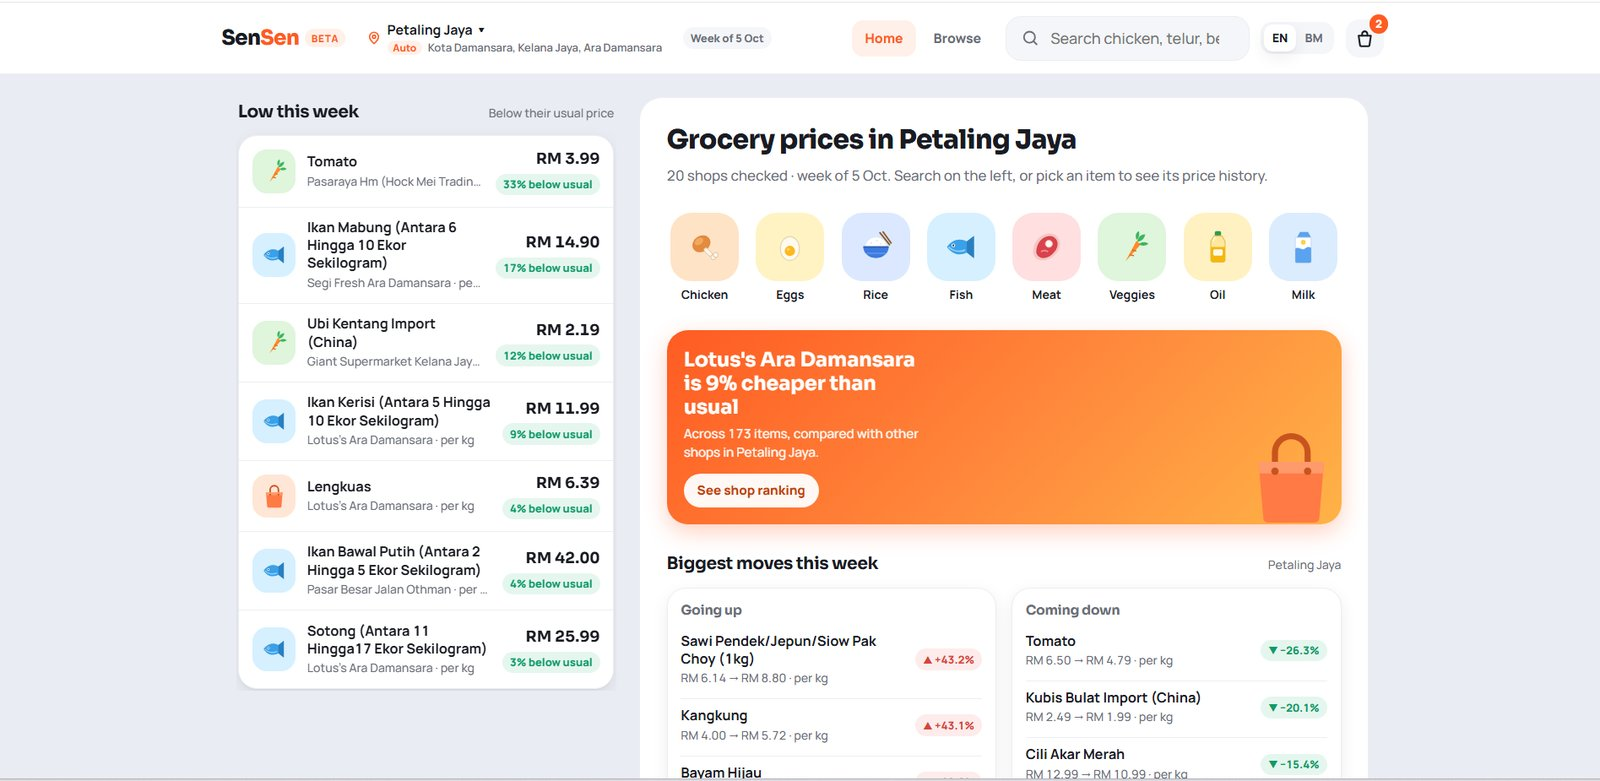
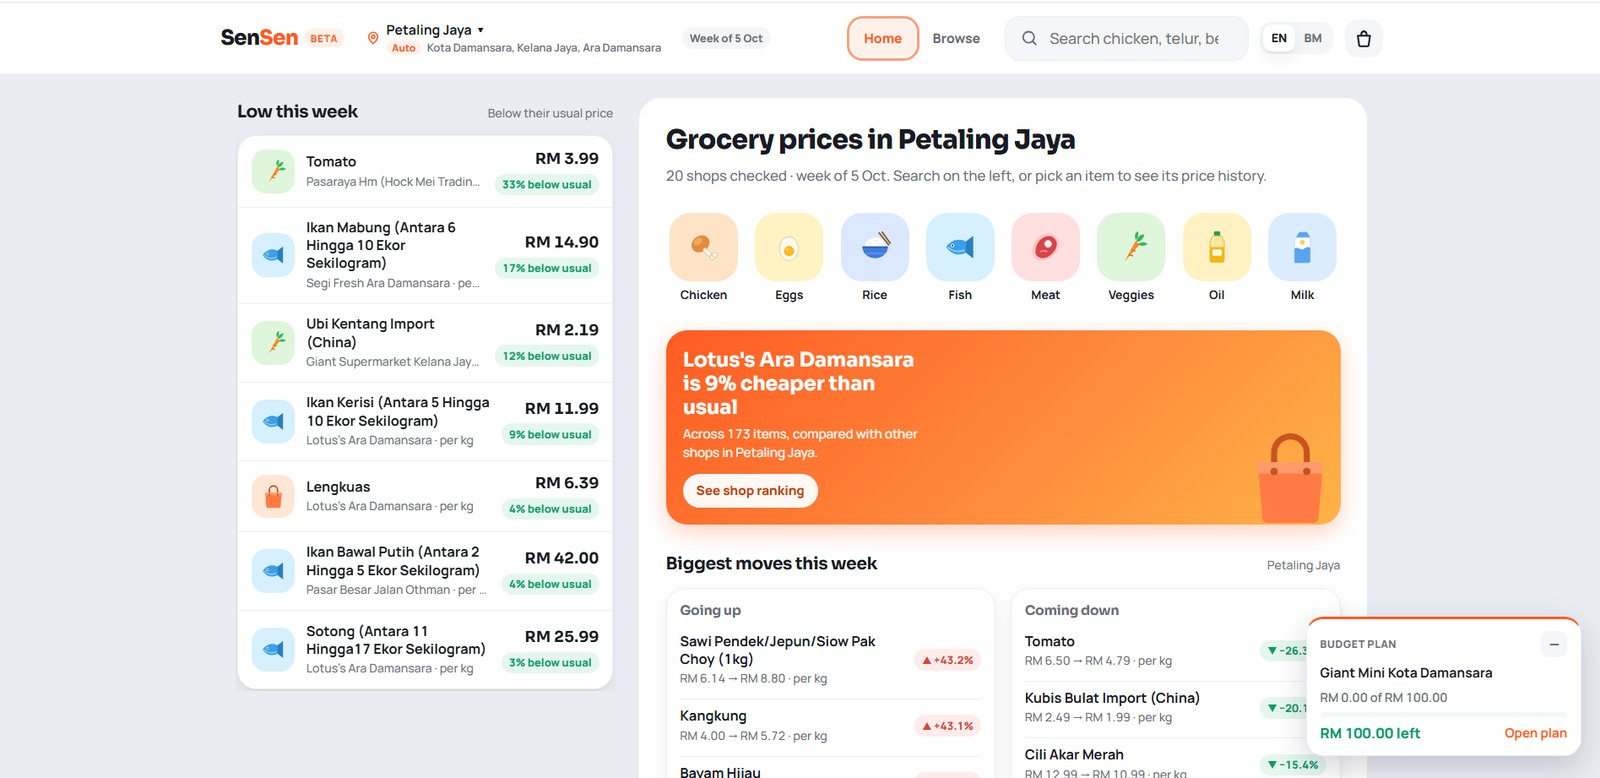
Add files via upload

diff --git a/index.html b/index.html
@@ -60,7 +60,6 @@ section{padding-block:clamp(48px,7vw,88px);border-top:1px solid var(--line)}
 .case-head .sum{color:var(--muted);font-size:1.08rem}
 .case-body{display:grid;grid-template-columns:minmax(0,7fr) minmax(0,5fr);gap:clamp(24px,4vw,48px);align-items:start}
 @media (max-width:820px){.case-body{grid-template-columns:minmax(0,1fr)}}
-@media (min-width:821px){.case-body:not(.solo) > .figs{position:sticky;top:84px}}
 .figs{display:grid;gap:12px;min-width:0}
 .figs .pair{display:grid;grid-template-columns:1fr 1fr;gap:12px}
 @media (max-width:620px){.figs .pair:not(.phones){grid-template-columns:minmax(0,1fr)}.shot.tall .ph{inset:8px;padding:10px}.shot.tall .ph .file{font-size:.66rem;word-break:break-all}.shot.tall .ph p{font-size:.8rem}}
@@ -314,12 +313,81 @@ footer .wrap{display:flex;flex-wrap:wrap;justify-content:space-between;gap:12px}
 .t-sensen .chip{border-radius:999px;background:#FFE3D3;border-color:#FFE3D3}
 .ss-mat{position:absolute;inset:0;background:linear-gradient(135deg,#FF6A2B 0%,#FFA24A 100%);overflow:hidden}
 .ss-mat::after{content:"";position:absolute;right:-60px;top:-80px;width:280px;height:280px;border-radius:50%;background:rgba(255,255,255,.12)}
-.ss-laptop{position:absolute;left:6%;bottom:-6%;width:min(60%,600px);border-radius:12px 12px 0 0;overflow:hidden;box-shadow:0 18px 40px rgba(90,30,0,.35);border:6px solid #1D2033;border-bottom:0;background:#1D2033}
+.ss-laptop{position:absolute;left:6%;bottom:-1%;width:min(60%,600px);border-radius:12px 12px 0 0;overflow:hidden;box-shadow:0 18px 40px rgba(90,30,0,.35);border:6px solid #1D2033;border-bottom:0;background:#1D2033}
 .ss-laptop img,.ss-phone img{display:block;width:100%;height:auto}
 .ss-phone{position:absolute;right:9%;bottom:-22%;width:clamp(92px,16%,160px);border-radius:22px;overflow:hidden;border:5px solid #111;box-shadow:0 18px 40px rgba(90,30,0,.4);background:#111;z-index:1}
 .ss-tag{position:absolute;left:6%;top:18px;font-family:var(--mono);font-size:.74rem;letter-spacing:.08em;color:#fff;background:rgba(29,32,51,.55);padding:4px 10px}
-.t-sensen .ss-meta{margin-top:clamp(20px,3vw,32px)}
+.t-sensen .metrics b{color:var(--box)}
+.t-sensen .ss-meta{margin-top:clamp(20px,3vw,32px);display:grid;gap:22px}
+.t-sensen .ss-h{font-family:var(--mono);font-size:.75rem;letter-spacing:.08em;text-transform:uppercase;color:var(--muted);margin:0 0 10px;font-weight:500}
+.ss-tl{list-style:none;margin:0;padding:0;display:grid;grid-template-columns:repeat(4,minmax(0,1fr));gap:10px;position:relative}
+.ss-tl::before{content:"";position:absolute;left:6px;right:6px;top:6px;height:2px;background:repeating-linear-gradient(90deg,var(--box) 0 6px,transparent 6px 11px);opacity:.55}
+.ss-tl li{position:relative;padding-top:22px;display:grid;gap:2px;min-width:0;align-content:start}
+.ss-tl li::before{content:"";position:absolute;left:0;top:0;width:14px;height:14px;border-radius:50%;background:var(--bg);border:3px solid var(--box);box-sizing:border-box}
+.ss-tl .v{font-family:var(--mono);font-size:.74rem;color:var(--link);font-weight:700}
+.ss-tl b{font-size:.95rem;line-height:1.25}
+.ss-tl li > span:last-child{font-size:.82rem;color:var(--muted);line-height:1.35}
+.ss-btns{display:flex;flex-wrap:wrap;gap:10px}
+.ss-btn{display:inline-flex;align-items:center;padding:10px 18px;border-radius:999px;font-weight:700;font-size:.92rem;text-decoration:none;border:1.5px solid var(--box);color:var(--link);background:transparent;transition:transform .15s ease,box-shadow .15s ease,background .15s ease}
+.ss-btn.primary{background:var(--box);color:#fff;box-shadow:0 6px 16px rgba(255,90,31,.3)}
+.ss-btn:hover{transform:translateY(-2px)}
+.ss-btn:not(.primary):hover{background:#FFE3D3}
+.ss-cards{display:grid;grid-template-columns:repeat(2,minmax(0,1fr));gap:12px}
+.ss-card{background:var(--surface);border:1px solid var(--line);border-top:3px solid var(--box);border-radius:12px;padding:14px 14px 16px;display:grid;gap:6px;box-shadow:0 4px 14px rgba(150,70,20,.06)}
+.ss-card b{font-size:1rem}
+.ss-card span{font-size:.88rem;color:var(--muted);line-height:1.45}
+.ss-flow{list-style:none;margin:0;padding:0;display:grid;gap:12px;counter-reset:f}
+.ss-flow li{counter-increment:f;position:relative;padding-left:44px;display:grid;gap:2px;min-height:30px}
+.ss-flow li::before{content:counter(f);position:absolute;left:0;top:0;width:30px;height:30px;border-radius:50%;background:var(--box);color:#fff;font-weight:700;font-size:.9rem;display:grid;place-items:center}
+.ss-flow li:not(:last-child)::after{content:"";position:absolute;left:14px;top:32px;bottom:-12px;width:2px;background:var(--line)}
+.ss-flow b{font-size:.98rem}
+.ss-flow span{font-size:.9rem;color:var(--muted);line-height:1.45}
+@media (max-width:820px){.t-sensen .case-body > .figs{display:contents}.t-sensen .case-body > .figs > .carousel{order:0}.t-sensen .case-body > .details{order:1}.t-sensen .ss-meta{order:2;margin-top:0}}
+@media (max-width:520px){.ss-btn{padding:9px 14px;font-size:.88rem}.ss-tl{grid-template-columns:repeat(2,minmax(0,1fr));row-gap:18px}.ss-tl::before{display:none}.ss-cards{grid-template-columns:minmax(0,1fr)}}
 .t-sensen .slide img{aspect-ratio:1600/782;object-fit:cover;object-position:top center;background:#EEF0F4}
+/* FYP: road hazard look */
+.rh-h{font-family:var(--mono);font-size:.75rem;letter-spacing:.08em;text-transform:uppercase;color:var(--muted);margin:0 0 12px;font-weight:500}
+.rh-loop{margin-top:clamp(28px,3vw,36px)}
+.rh-loop ol{list-style:none;margin:0;padding:0;display:grid;grid-template-columns:repeat(4,minmax(0,1fr));gap:14px;counter-reset:none}
+.rh-loop li{position:relative;display:grid;align-content:start;gap:6px;padding:18px 16px;background:var(--surface);border:1px solid var(--line);border-top:2px solid #F5B700}
+.rh-loop li:not(:last-child)::after{content:"\2192";position:absolute;right:-13px;top:18px;width:12px;text-align:center;color:var(--muted);font-size:.9rem;z-index:1}
+.rh-loop i{font-style:normal;font-family:var(--mono);font-size:.75rem;color:#F5B700;font-weight:700}
+.rh-loop b{font-size:1.05rem}
+.rh-loop span{font-size:.9rem;line-height:1.5;color:var(--muted)}
+.rh-bottom{margin-top:clamp(28px,3vw,36px);display:grid;grid-template-columns:minmax(0,1fr) minmax(0,1fr);gap:clamp(24px,4vw,48px);align-items:start}
+.rh-bottom .award{max-width:none;grid-template-columns:minmax(0,1.15fr) minmax(0,1fr);margin:0;padding:14px;gap:22px;border-color:rgba(245,183,0,.45)}
+.rh-bottom .award b{font-size:1.5rem}
+.rh-bottom .award img{box-shadow:0 8px 24px rgba(0,0,0,.4)}
+.rh-bottom .award:hover{border-color:#F5B700}
+.rh-ship{display:grid;gap:18px}
+.rh-ship h4,.rh-h4{font-family:var(--mono);font-size:.75rem;letter-spacing:.08em;text-transform:uppercase;color:var(--muted);margin:0 0 10px;font-weight:500}
+.rh-spec{margin:0;display:grid;border-top:1px solid var(--line)}
+.rh-spec > div{display:grid;grid-template-columns:120px minmax(0,1fr);gap:16px;padding:11px 0;border-bottom:1px solid var(--line)}
+.rh-spec dt{font-family:var(--mono);font-size:.74rem;letter-spacing:.06em;text-transform:uppercase;color:var(--ink);opacity:.7;padding-top:3px}
+.rh-spec dd{margin:0;font-size:.92rem;line-height:1.5;color:var(--muted)}
+@media (max-width:820px){.rh-loop ol{grid-template-columns:repeat(2,minmax(0,1fr))}.rh-loop li::after{display:none}.rh-bottom{grid-template-columns:minmax(0,1fr)}}
+@media (max-width:520px){.rh-loop ol{grid-template-columns:minmax(0,1fr)}.rh-bottom .award{grid-template-columns:minmax(0,1fr)}.rh-spec > div{grid-template-columns:minmax(0,1fr);gap:2px}}
+.rh-btns,.sl-btns{display:flex;flex-wrap:wrap;gap:10px}
+.rh-btn{display:inline-flex;align-items:center;gap:6px;padding:10px 16px;font-family:var(--mono);font-weight:700;font-size:.85rem;text-decoration:none;border:2px solid #F5B700;color:#F5B700;text-transform:uppercase;letter-spacing:.04em;transition:transform .15s ease,background .15s ease}
+.rh-btn.primary{background:#F5B700;color:#14171A}
+.rh-btn:hover{transform:translateY(-2px)}
+.rh-btn:not(.primary){border-color:var(--line);color:var(--ink)}
+.rh-btn:not(.primary):hover{border-color:#F5B700;color:#F5B700}
+/* Sightline: agent-select look */
+.t-sight .metrics b{font-family:"Barlow Condensed","Arial Narrow",sans-serif;color:#FF4655;letter-spacing:.02em}
+.sl-why{position:relative;background:var(--surface);padding:16px 18px 16px 20px;clip-path:polygon(0 0,100% 0,100% calc(100% - 14px),calc(100% - 14px) 100%,0 100%)}
+.sl-why::before{content:"";position:absolute;left:0;top:0;bottom:0;width:4px;background:#FF4655}
+.sl-why p{font-size:1.02rem}
+.sl-abil{list-style:none;margin:0;padding:0;display:grid;gap:10px}
+.sl-abil li{display:grid;grid-template-columns:44px minmax(0,1fr);gap:14px;align-items:center;background:var(--surface);padding:12px 14px;clip-path:polygon(10px 0,100% 0,100% calc(100% - 10px),calc(100% - 10px) 100%,0 100%,0 10px);border-left:2px solid transparent;transition:background .15s ease,transform .15s ease}
+.sl-abil li:hover{background:#1D2D3B;transform:translateX(4px)}
+.sl-abil kbd,.sl-ult kbd{display:grid;place-items:center;width:40px;height:40px;font-family:"Barlow Condensed","Arial Narrow",sans-serif;font-weight:700;font-size:1.3rem;color:#ECE8E1;background:#0F1923;border:1.5px solid #FF4655;clip-path:polygon(6px 0,100% 0,100% calc(100% - 6px),calc(100% - 6px) 100%,0 100%,0 6px)}
+.sl-abil div{display:grid;gap:2px}
+.sl-abil b{font-family:"Barlow Condensed","Arial Narrow",sans-serif;text-transform:uppercase;letter-spacing:.06em;font-size:1.05rem}
+.sl-abil span{font-size:.9rem;color:var(--muted);line-height:1.4}
+.sl-ult{display:inline-flex;align-items:center;gap:12px;padding:8px 22px 8px 8px;background:#FF4655;color:#0F1923;text-decoration:none;font-family:"Barlow Condensed","Arial Narrow",sans-serif;font-weight:700;font-size:1.15rem;text-transform:uppercase;letter-spacing:.06em;clip-path:polygon(0 0,100% 0,100% calc(100% - 12px),calc(100% - 12px) 100%,0 100%);transition:transform .15s ease,filter .15s ease}
+.sl-ult kbd{background:#0F1923;border-color:#0F1923}
+.sl-ult:hover{transform:translateY(-2px);filter:brightness(1.08)}
 </style>
 </head><body>
 
@@ -500,33 +568,48 @@ footer .wrap{display:flex;flex-wrap:wrap;justify-content:space-between;gap:12px}
               <p>Road damage is found through slow manual checks and scattered complaints, and every report is verified by hand before repairs start.</p>
             </div>
             <div>
-              <h4>What I built</h4>
-              <ul>
-                <li>A YOLOv8 detector trained on Malaysian roads, with augmentation for rain, shade and glare</li>
-                <li>A mobile-first React web app to report hazards with a photo and GPS, no sign-up</li>
-                <li>An admin dashboard where corrections retrain the model</li>
-                <li>A contractor portal that closes the repair loop</li>
-              </ul>
-            </div>
-            <div>
-              <h4>Stack</h4>
-              <div class="chips"><span class="chip">Python</span><span class="chip">YOLOv8</span><span class="chip">Flask</span><span class="chip">Google Cloud Run</span><span class="chip">Firebase</span><span class="chip">React</span><span class="chip">Leaflet.js</span></div>
-            </div>
-            <div class="links">
-              <a href="https://youtu.be/7WFv5joPx0U" target="_blank" rel="noopener">PIXEL 2026 presentation</a>
-              <a href="https://github.com/HazzyWan/FYP_RoadHazard" target="_blank" rel="noopener">GitHub</a>
+              <h4 class="rh-h4">Under the hood</h4>
+              <dl class="rh-spec">
+                <div><dt>Inference</dt><dd>Two passes with CLAHE enhancement and a shadow guard on top of raw YOLO output</dd></div>
+                <div><dt>Stress test</dt><dd>6 tropical conditions: glare, canopy shadow, rain, wet road, haze, low light</dd></div>
+                <div><dt>Retraining</dt><dd>Admin corrections become training data; a new model goes live only if mAP@0.5 improves</dd></div>
+                <div><dt>Deploy</dt><dd>Flask API in Docker on Cloud Run, React app on Firebase Hosting</dd></div>
+              </dl>
             </div>
           </div>
         </div>
-        <a class="award" href="images/pixel-certificate.jpg" data-lightbox>
+        <div class="rh-loop">
+          <h4 class="rh-h">The repair loop I built</h4>
+          <ol>
+            <li><i>01</i><b>Report</b><span>Citizens snap a photo on a mobile-first web app. GPS is read from the photo, no sign-up.</span></li>
+            <li><i>02</i><b>Detect</b><span>YOLOv8 marks potholes and cracks with a confidence score.</span></li>
+            <li><i>03</i><b>Verify</b><span>Admins confirm or correct on a dashboard with a live hazard map.</span></li>
+            <li><i>04</i><b>Repair</b><span>Contractors get an email link to accept, reject and complete the job.</span></li>
+          </ol>
+        </div>
+        <div class="rh-bottom">
+          <div class="rh-ship">
+              <div>
+                <h4>Stack</h4>
+                <div class="chips"><span class="chip">Python</span><span class="chip">YOLOv8</span><span class="chip">OpenCV</span><span class="chip">Flask</span><span class="chip">Docker</span><span class="chip">Google Cloud Run</span><span class="chip">Firebase</span><span class="chip">React</span><span class="chip">Leaflet.js</span></div>
+              </div>
+              <div class="rh-btns">
+                <a class="rh-btn primary" href="https://youtu.be/7WFv5joPx0U" target="_blank" rel="noopener">&#9654; PIXEL 2026 presentation</a>
+                <a class="rh-btn" href="https://github.com/HazzyWan/FYP_RoadHazard" target="_blank" rel="noopener">GitHub</a>
+              </div>
+          </div>
+          <div>
+            <h4 class="rh-h">Award</h4>
+    <a class="award" href="images/pixel-certificate.jpg" data-lightbox>
           <img src="images/pixel-certificate.jpg" alt="PIXEL 2026 Silver Award certificate">
           <span>
-            <span class="eyebrow">Award</span>
             <b>Silver Award, PIXEL 2026</b>
             <span class="sub">School of Computer Sciences, Universiti Sains Malaysia · 20 June 2026</span><br>
             <span class="view">View certificate</span>
           </span>
         </a>
+          </div>
+        </div>
       </div>
       </article>
 
@@ -637,29 +720,38 @@ footer .wrap{display:flex;flex-wrap:wrap;justify-content:space-between;gap:12px}
       <article class="case t-sensen" id="sensen">
       <div class="wrap">
         <div class="case-head">
-          <p class="eyebrow">Side project · Live beta · 2026</p>
+          <p class="eyebrow">Side project · Live beta v0.7 · 2026</p>
           <h3>SenSen</h3>
           <p class="sum">A grocery price comparison app for Selangor, KL and Putrajaya, built on the government's PriceCatcher open data.</p>
         </div>
         <div class="banner">
           <div class="ss-mat">
             <span class="ss-tag">sensen-xi.vercel.app</span>
-            <div class="ss-laptop"><img src="images/sensen-laptop-home.jpg" alt="SenSen laptop home screen"></div>
-            <div class="ss-phone"><img src="images/sensen-phone-home.jpg" alt="SenSen installed on a phone, dark mode"></div>
+            <div class="ss-laptop"><img src="images/sensen-laptop-home.jpg" alt="SenSen on a laptop, with the floating budget card"></div>
+            <div class="ss-phone"><img src="images/sensen-phone-budget.jpg" alt="Budget plan on a phone, with cheaper-nearby hints"></div>
           </div>
+        </div>
+        <div class="metrics" aria-label="Key facts">
+          <div><b>v0.7</b><span>live beta, used on phone and laptop</span></div>
+          <div><b>3</b><span>states covered: Selangor, KL and Putrajaya</span></div>
+          <div><b>Daily</b><span>automatic data refresh, tests and deploy</span></div>
+          <div><b>RM 0</b><span>to run, on free tiers only</span></div>
         </div>
         <div class="case-body">
           <div class="figs">
             <div class="carousel" aria-roledescription="carousel" aria-label="SenSen screens">
               <div class="track" tabindex="0">
-              
               <figure class="slide">
-                <img src="images/sensen-laptop-item-nearme.jpg" alt="Item page" loading="eager">
-                <figcaption><b>Item page</b> A Low, Normal or High label against six months of history, and the cheapest shops within 3, 5 or 10 km.</figcaption>
+                <img src="images/sensen-laptop-budget.jpg" alt="Budget planner" loading="eager">
+                <figcaption><b>Budget planner</b> Pick a shop, set a budget, then add items from everything that shop sells.</figcaption>
+              </figure>
+              <figure class="slide">
+                <img src="images/sensen-laptop-item-nearme.jpg" alt="Item page" loading="lazy">
+                <figcaption><b>Item page</b> A Low, Normal or High label, the cheapest shops within 3, 5 or 10 km, and the budget card following along.</figcaption>
               </figure>
               <figure class="slide">
                 <img src="images/sensen-laptop-basket.jpg" alt="Basket comparison" loading="lazy">
-                <figcaption><b>Basket comparison</b> The cheapest single shop for everything in your basket, and what you save by splitting the trip.</figcaption>
+                <figcaption><b>Basket comparison</b> The cheapest single shop for your whole basket, and what you save by splitting the trip.</figcaption>
               </figure>
               <figure class="slide">
                 <img src="images/sensen-laptop-browse-ranking.jpg" alt="Browse and shop ranking" loading="lazy">
@@ -668,36 +760,52 @@ footer .wrap{display:flex;flex-wrap:wrap;justify-content:space-between;gap:12px}
               </div>
               <div class="car-nav">
                 <button type="button" class="car-btn prev" aria-label="Previous slide">&larr;</button>
-                <div class="dots"><button type="button" aria-label="Slide 1: Item page"></button><button type="button" aria-label="Slide 2: Basket comparison"></button><button type="button" aria-label="Slide 3: Browse and shop ranking"></button></div>
-                <span class="count mono">1 / 3</span>
+                <div class="dots"><button type="button" aria-label="Slide 1: Budget planner"></button><button type="button" aria-label="Slide 2: Item page"></button><button type="button" aria-label="Slide 3: Basket comparison"></button><button type="button" aria-label="Slide 4: Browse and shop ranking"></button></div>
+                <span class="count mono">1 / 4</span>
                 <button type="button" class="car-btn next" aria-label="Next slide">&rarr;</button>
               </div>
             </div>
-            <div class="details ss-meta">
-            <div>
-                <h4>Stack</h4>
+            <div class="ss-meta">
+              <div>
+                <h4 class="ss-h">Next up</h4>
+                <ol class="ss-tl">
+                  <li><span class="v">v0.8</span><b>Visual search</b><span>Scan an item with the camera</span></li>
+                  <li><span class="v">v0.9</span><b>Community prices</b><span>For items PriceCatcher misses</span></li>
+                  <li><span class="v">v1.0</span><b>AI assistant</b><span>Answers from real prices</span></li>
+                  <li><span class="v">v1.1</span><b>Mascot and tour</b><span>A guided first run</span></li>
+                </ol>
+              </div>
+              <div>
+                <h4 class="ss-h">Stack</h4>
                 <div class="chips"><span class="chip">React</span><span class="chip">FastAPI</span><span class="chip">Python</span><span class="chip">pandas</span><span class="chip">PWA</span><span class="chip">Open Data</span><span class="chip">GitHub Actions</span><span class="chip">Vercel</span></div>
               </div>
-              <div class="links">
-                <a href="https://sensen-xi.vercel.app" target="_blank" rel="noopener">Live app</a>
-                <a href="https://github.com/HazzyWan/sensen" target="_blank" rel="noopener">GitHub</a>
-                <a href="https://sensen-api.vercel.app/docs" target="_blank" rel="noopener">API docs</a>
+              <div class="ss-btns">
+                <a class="ss-btn primary" href="https://sensen-xi.vercel.app" target="_blank" rel="noopener">Open live app &#8599;</a>
+                <a class="ss-btn" href="https://github.com/HazzyWan/sensen" target="_blank" rel="noopener">GitHub</a>
+                <a class="ss-btn" href="https://sensen-api.vercel.app/docs" target="_blank" rel="noopener">API docs</a>
               </div>
             </div>
           </div>
           <div class="details">
             <div>
               <h4>Why</h4>
-              <p>KPDN publishes what shops charge for hundreds of everyday items, but only as raw data files. SenSen turns it into answers: what an item usually costs, which shop nearby is cheaper, and when a price is higher than normal.</p>
+              <p>Shoppers can't tell if a price is fair. KPDN publishes what shops charge, but only as raw data files. SenSen turns that into answers.</p>
+            </div>
+            <div>
+              <h4>New in v0.7</h4>
+              <div class="ss-cards">
+                <div class="ss-card"><b>Budget planner</b><span>Pick a shop, set a budget and watch it drop as you add items, with a hint when a shop nearby is cheaper.</span></div>
+                <div class="ss-card"><b>Smarter area picker</b><span>Finds your area from the 5 nearest shops. Type Ampang or Cyberjaya and it finds the district.</span></div>
+              </div>
             </div>
             <div>
               <h4>How it works</h4>
-              <ul>
-                <li>A Python pipeline cleans 6 months of PriceCatcher data into weekly prices and labels</li>
-                <li>A FastAPI backend serves it from memory, no database needed</li>
-                <li>"Near me" distances are worked out on the phone, so your location never leaves it</li>
-                <li>GitHub Actions refreshes, tests and redeploys every morning, at RM 0 on free tiers</li>
-              </ul>
+              <ol class="ss-flow">
+                <li><b>Pipeline</b><span>Python cleans 6 months of PriceCatcher data, refreshed every morning by GitHub Actions</span></li>
+                <li><b>API</b><span>FastAPI serves it from memory, no database. New: /shops and /shops/{code}/items</span></li>
+                <li><b>App</b><span>React PWA with separate phone and laptop layouts</span></li>
+                <li><b>Private</b><span>Nearby shops and distances are worked out on your phone. Your location never reaches the server</span></li>
+              </ol>
             </div>
             <p class="note">An independent project, not connected to KPDN or DOSM. Prices from PriceCatcher by KPDN on data.gov.my (CC BY 4.0). Shop locations &copy; OpenStreetMap contributors.</p>
           </div>
@@ -720,6 +828,12 @@ footer .wrap{display:flex;flex-wrap:wrap;justify-content:space-between;gap:12px}
             <span class="label">Sightline</span>
           </div>
         </div>
+        <div class="metrics" aria-label="Key facts">
+          <div><b>1,358</b><span>ranked matches analysed</span></div>
+          <div><b>3</b><span>views: positions, deaths and kills</span></div>
+          <div><b>5</b><span>filters: map, rank, side, agent, round phase</span></div>
+          <div><b>Live</b><span>on Netlify, free to try</span></div>
+        </div>
         <div class="case-body">
           <div class="figs">
             <figure class="shot" data-fit="contain" style="aspect-ratio:997/881" data-src="images/valorant-ui.jpg">
@@ -735,24 +849,24 @@ footer .wrap{display:flex;flex-wrap:wrap;justify-content:space-between;gap:12px}
             </div>
           </div>
           <div class="details">
-            <div>
+            <div class="sl-why">
               <h4>Why</h4>
               <p>When I peek a site, where is the enemy most likely to be? I wanted real match data instead of gut feel.</p>
             </div>
             <div>
               <h4>How it works</h4>
-              <ul>
-                <li>Pulls ranked match data from the HenrikDev API</li>
-                <li>Python maps every player's position onto the minimap and turns it into heatmaps</li>
-                <li>Filter by map, rank, side, agent and round phase</li>
-              </ul>
+              <ol class="sl-abil">
+                <li><kbd>C</kbd><div><b>Collect</b><span>Pulls ranked match data from the HenrikDev API</span></div></li>
+                <li><kbd>Q</kbd><div><b>Map</b><span>Python places every player's position on the minimap and builds the heatmaps</span></div></li>
+                <li><kbd>E</kbd><div><b>Filter</b><span>By map, rank, side, agent and round phase</span></div></li>
+              </ol>
             </div>
             <div>
               <h4>Stack</h4>
               <div class="chips"><span class="chip">Python</span><span class="chip">pandas, NumPy, SciPy</span><span class="chip">HTML/JS</span><span class="chip">HenrikDev API</span><span class="chip">Netlify</span></div>
             </div>
-            <div class="links">
-              <a href="https://sightline-val.netlify.app" target="_blank" rel="noopener">Live demo</a>
+            <div class="sl-btns">
+              <a class="sl-ult" href="https://sightline-val.netlify.app" target="_blank" rel="noopener"><kbd>X</kbd><span>Try the live demo</span></a>
               <!-- Add once the repo is public: <a href="https://github.com/HazzyWan/sightline" target="_blank" rel="noopener">GitHub</a> -->
             </div>
             <p class="note">Sightline isn't endorsed by Riot Games and doesn't reflect the views or opinions of Riot Games or anyone officially involved in producing or managing Riot Games properties.</p>
